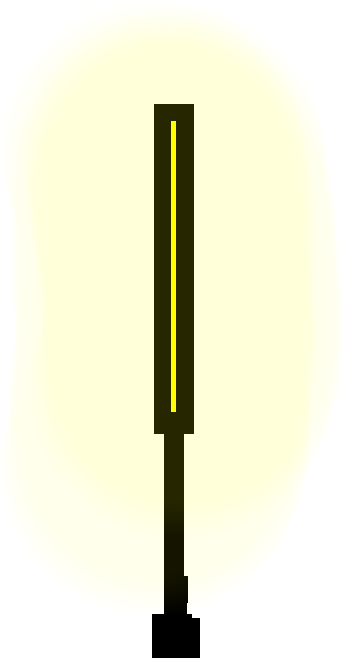
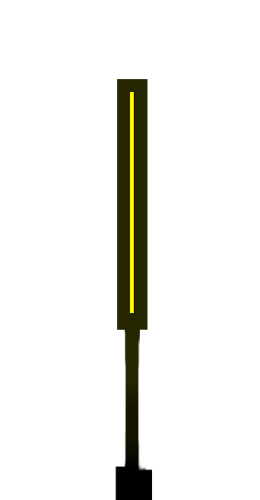
afegit decoracio pero se penge

diff --git a/jetpack.py b/jetpack.py
@@ -6,6 +6,7 @@ UPDATES_PER_SEC = 60
 SIZE = WIDTH, HEIGHT = 1280, 720
 SCREEN = None
 BACKGROUND = None
+FAROLES = None
 GROUND = None
 GROUND_C = None
 CLOCK = pygame.time.Clock()
@@ -32,7 +33,7 @@ class MovingImages():
         SCREEN.blits([el for el in zip(self.images, self.rects)])
 
 def init_game():
-    global SCREEN, BACKGROUND, GROUND, GROUND_C
+    global SCREEN, BACKGROUND, GROUND, FAROLES, GROUND_C
     pygame.init()
 
     SCREEN = pygame.display.set_mode(SIZE)
@@ -43,14 +44,26 @@ def init_game():
     gr_image = pygame.image.load("assets/ground.png").convert_alpha()
     GROUND_IMAGES = [pygame.transform.scale(gr_image, (gr_image.get_rect().width,GROUND_HEIGHT))] * (ceil(WIDTH/gr_image.get_rect().width) + 1)
 
+    fa_image = pygame.image.load("assets/farola.png")
+    fa_image.set_colorkey((255,255,255))
+    fa_image = fa_image.convert_alpha()
+    new_width = floor(fa_image.get_rect().width * 0.8)
+    new_height = floor(fa_image.get_rect().height * 0.8)
+    FA_IMAGES = [pygame.transform.scale(fa_image, (new_width, new_height))] * (ceil(WIDTH/fa_image.get_rect().width) + 1)
+
     BACKGROUND_RECTS = [img.get_rect() for img in BACKGROUND_IMAGES]
     GROUND_RECTS = [img.get_rect() for img in GROUND_IMAGES]
+    FA_RECTS = [img.get_rect() for img in FA_IMAGES]
 
     for rect in GROUND_RECTS:
         rect.y = HEIGHT - GROUND_HEIGHT
 
+    for rect in FA_RECTS:
+        rect.y = HEIGHT - GROUND_HEIGHT - rect.height
+
     BACKGROUND = MovingImages(3, BACKGROUND_IMAGES, BACKGROUND_RECTS)
     GROUND = MovingImages(8, GROUND_IMAGES, GROUND_RECTS)
+    FAROLES = MovingImages(3, FA_IMAGES, FA_RECTS, offset=200)
     GROUND_C = pygame.Rect(0, HEIGHT - GROUND_HEIGHT, WIDTH, GROUND_HEIGHT)
 
 
@@ -90,6 +103,7 @@ class Player:
 def draw_background():
     BG_COLOR = (0, 191, 255)
     BACKGROUND.update()
+    FAROLES.update()
 
 
 def draw_ground():
@@ -117,12 +131,14 @@ if __name__ in "__main__":
     player = Player()
     objects = []
     init_game()
-    while True:
+    RUNNING = True
+    while RUNNING:
         CLOCK.tick(UPDATES_PER_SEC)
         for event in pygame.event.get():
             if event.type == pygame.QUIT:
+                print("HAndled")
                 # print(sum(fps)/len(fps))
-                sys.exit()
+                RUNNING = False
         draw_background()
         process_player_input(player)
         object_logic(objects + [player])
@@ -131,6 +147,8 @@ if __name__ in "__main__":
         draw_ground()
         #fps.append(CLOCK.get_fps())
         pygame.display.flip()
+    print("Exited")
+    sys.exit()
 
 # TODO: Dibuixar sprites del fondo i del terra (Galajat)
 # TODO: Dibuixar sprites del personatge i objectes (Galajat)
